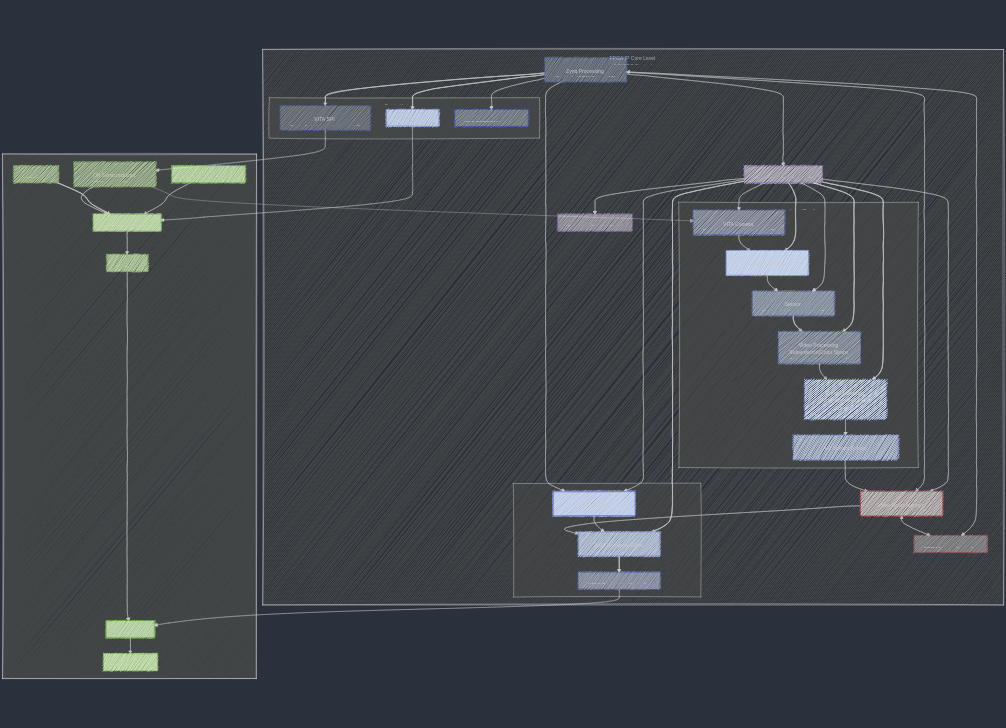
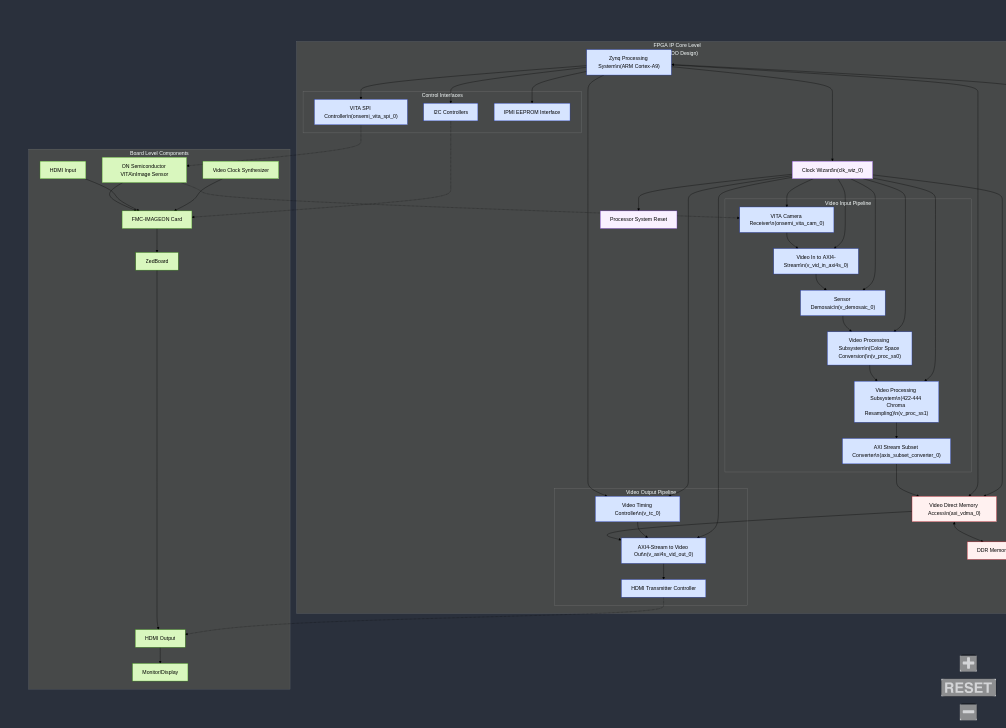
latest

diff --git a/README.md b/README.md
@@ -36,7 +36,7 @@ Tasks:
 The following diagram illustrates the interconnection between the various modules in the
 system, both at the IP core level (i.e. the components in our VIVADO design) as well as the board
 level (i.e. the various chips that work together to connect the output video to the monitor).
-
+![[Pasted image 20250308090340.png]]
 ![assets/diagram.png](assets/diagram.png)
 
 ## Starter Hardware Operation Intentions
